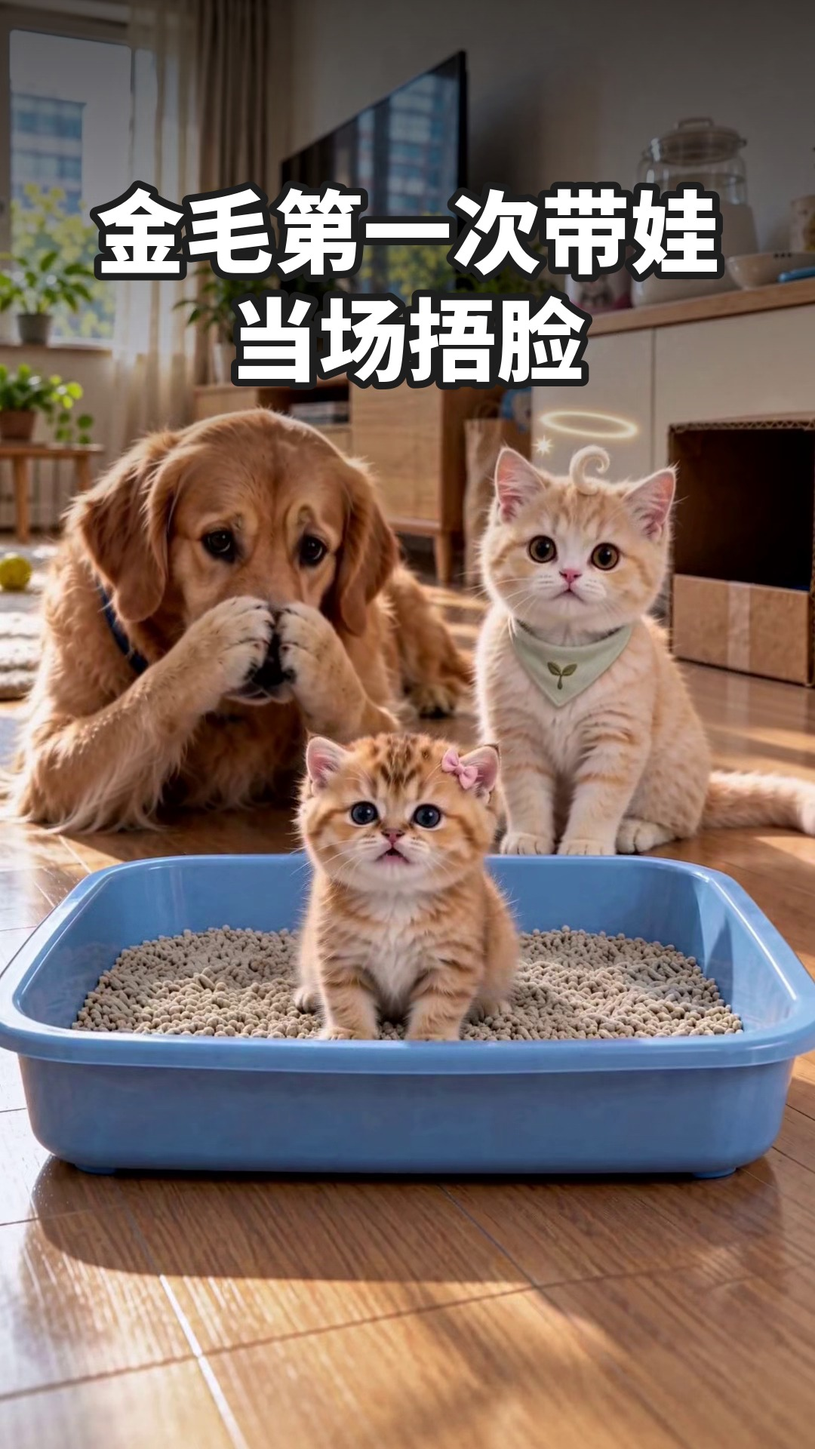
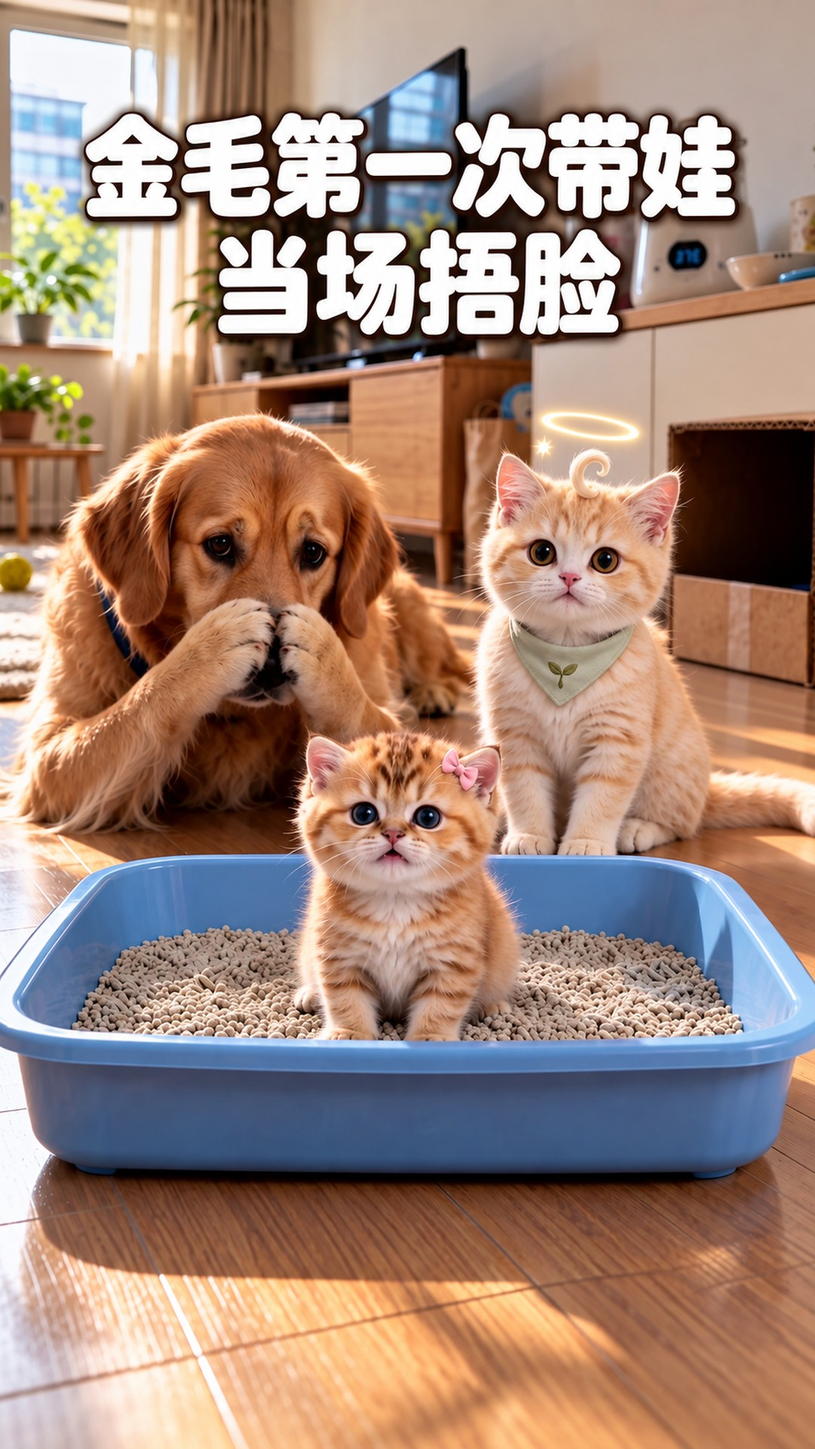
Publish kit: regenerated covers for all platforms

diff --git a/projects/ai-video/publish/index.html b/projects/ai-video/publish/index.html
@@ -52,7 +52,7 @@ ul{padding-left:20px;margin:6px 0}li{margin:3px 0}footer{margin-top:40px;font-si
 <article class="ep" id="ep1"><div class="eph"><span class="num">第1单</span><h2>《就歇一会儿》</h2><span class="meta">no.00001 · 2分31秒 · 竖屏 1080×1920</span></div>
 <p class="log">加班到深夜的她累得睡着了，电话还在响。家里的橘猫许了愿，蛋卷赶来，两只猫替她回消息、找文件、把方案发出去，还煎了个流心蛋。</p><p class="res"><b>两种共鸣：</b>我也有这个苦恼：加班累到撑不住；我家的猫也这样：守在电脑边、趴在桌上陪着。</p><p class="res"><b>封面取帧：</b>封面帧 1:28（两只猫在电脑前一起干活，无字幕）</p>
 <div class="plats"><section class="plat douyin"><h3>抖音</h3>
-<div class="covers"><a class="cov tall" href="covers/ep1_douyin_9x16.jpg" download><img src="covers/ep1_douyin_9x16.jpg" alt="抖音封面 ep1_douyin_9x16.jpg" loading="lazy"><span>9:16 · 下载</span></a><a class="cov mid" href="covers/ep1_douyin_3x4.jpg" download><img src="covers/ep1_douyin_3x4.jpg" alt="抖音封面 ep1_douyin_3x4.jpg" loading="lazy"><span>3:4 · 下载</span></a></div>
+<div class="covers"><a class="cov tall" href="covers/ep1_douyin_9x16.jpg?v=20261028-cover-v3" download><img src="covers/ep1_douyin_9x16.jpg?v=20261028-cover-v3" alt="抖音封面 ep1_douyin_9x16.jpg" loading="lazy"><span>9:16 · 下载</span></a><a class="cov mid" href="covers/ep1_douyin_3x4.jpg?v=20261028-cover-v3" download><img src="covers/ep1_douyin_3x4.jpg?v=20261028-cover-v3" alt="抖音封面 ep1_douyin_3x4.jpg" loading="lazy"><span>3:4 · 下载</span></a></div>
 <div class="field"><div class="fh"><b>标题</b><button class="copy" type="button" data-copy="我累到睡着后，猫替我把方案交了……">复制</button></div><p class="t">我累到睡着后，猫替我把方案交了……</p></div>
 <div class="field"><div class="fh"><b>简介 / 描述</b><button class="copy" type="button" data-copy="凌晨一点，方案还差最后一点，她撑不住睡着了。
 家里的橘猫守着一直响的手机，许了个愿——
@@ -61,14 +61,14 @@ ul{padding-left:20px;margin:6px 0}li{margin:3px 0}footer{margin-top:40px;font-si
 “辛苦啦。”">复制</button></div><p class="d">凌晨一点，方案还差最后一点，她撑不住睡着了。<br>家里的橘猫守着一直响的手机，许了个愿——<br>蛋卷来了。两只猫分工：一只回消息，一只找文件，最后还给她煎了个流心蛋🍳<br><br>“辛苦啦。”</p></div>
 <div class="field"><div class="fh"><b>话题</b><button class="copy" type="button" data-copy="#AI萌宠 #蛋卷万事屋 #打工人 #猫咪 #治愈系 #加班">复制</button></div><p class="tg">#AI萌宠 #蛋卷万事屋 #打工人 #猫咪 #治愈系 #加班</p></div>
 <p class="note">截帧＋大字。抖音上下滑时首帧/封面竖屏全屏显示，主页九宫格按 3:4 截取，两张都设置。文字放在桌面区域，避开猫脸和底部 200px 按钮区。</p></section><section class="plat kuaishou"><h3>快手</h3>
-<div class="covers"><a class="cov tall" href="covers/ep1_kuaishou_9x16.jpg" download><img src="covers/ep1_kuaishou_9x16.jpg" alt="快手封面 ep1_kuaishou_9x16.jpg" loading="lazy"><span>9:16 · 下载</span></a><a class="cov mid" href="covers/ep1_kuaishou_3x4.jpg" download><img src="covers/ep1_kuaishou_3x4.jpg" alt="快手封面 ep1_kuaishou_3x4.jpg" loading="lazy"><span>3:4 · 下载</span></a></div>
+<div class="covers"><a class="cov tall" href="covers/ep1_kuaishou_9x16.jpg?v=20261028-cover-v3" download><img src="covers/ep1_kuaishou_9x16.jpg?v=20261028-cover-v3" alt="快手封面 ep1_kuaishou_9x16.jpg" loading="lazy"><span>9:16 · 下载</span></a><a class="cov mid" href="covers/ep1_kuaishou_3x4.jpg?v=20261028-cover-v3" download><img src="covers/ep1_kuaishou_3x4.jpg?v=20261028-cover-v3" alt="快手封面 ep1_kuaishou_3x4.jpg" loading="lazy"><span>3:4 · 下载</span></a></div>
 <div class="field"><div class="fh"><b>标题</b><button class="copy" type="button" data-copy="加班到凌晨累睡着了，家里的猫和小天使猫替她把活干完了，还煎了个流心蛋，看完心里暖暖的">复制</button></div><p class="t">加班到凌晨累睡着了，家里的猫和小天使猫替她把活干完了，还煎了个流心蛋，看完心里暖暖的</p></div>
 <div class="field"><div class="fh"><b>简介 / 描述</b><button class="copy" type="button" data-copy="她太累了，就想歇一会儿。
 醒来一看：方案发了，早饭做好了，猫在旁边打呼噜。
 你家的猫，会不会也这样守着你加班？">复制</button></div><p class="d">她太累了，就想歇一会儿。<br>醒来一看：方案发了，早饭做好了，猫在旁边打呼噜。<br>你家的猫，会不会也这样守着你加班？</p></div>
 <div class="field"><div class="fh"><b>话题</b><button class="copy" type="button" data-copy="#AI萌宠 #猫咪 #打工人 #暖心">复制</button></div><p class="tg">#AI萌宠 #猫咪 #打工人 #暖心</p></div>
 <p class="note">同一帧，黄色粗体大字、直给情绪，适配快手双列（3:4）与单列（9:16）。</p></section><section class="plat xiaohongshu"><h3>小红书</h3>
-<div class="covers"><a class="cov mid" href="covers/ep1_xiaohongshu_3x4.jpg" download><img src="covers/ep1_xiaohongshu_3x4.jpg" alt="小红书封面 ep1_xiaohongshu_3x4.jpg" loading="lazy"><span>3:4 · 下载</span></a></div>
+<div class="covers"><a class="cov mid" href="covers/ep1_xiaohongshu_3x4.jpg?v=20261028-cover-v3" download><img src="covers/ep1_xiaohongshu_3x4.jpg?v=20261028-cover-v3" alt="小红书封面 ep1_xiaohongshu_3x4.jpg" loading="lazy"><span>3:4 · 下载</span></a></div>
 <div class="field"><div class="fh"><b>标题</b><button class="copy" type="button" data-copy="加班累睡着…醒来活被猫干完了">复制</button></div><p class="t">加班累睡着…醒来活被猫干完了</p></div>
 <div class="field"><div class="fh"><b>正文</b><button class="copy" type="button" data-copy="昨晚方案改到一点，趴桌上想着就歇五分钟。
 
@@ -85,7 +85,7 @@ ul{padding-left:20px;margin:6px 0}li{margin:3px 0}footer{margin-top:40px;font-si
 ——蛋卷万事屋 第1单｜AI原创萌宠短剧">复制</button></div><p class="d">昨晚方案改到一点，趴桌上想着就歇五分钟。<br><br>醒来手机里多了一条“已发送”，桌上一盘流心蛋和吐司。<br>不是我发的，也不是我煎的。<br><br>是家里的橘猫许了个愿，云上的小猫蛋卷下来帮忙：<br>📱一只猫回老板消息<br>📁一只猫在“别删”文件夹里翻数据<br>🍳“她的蛋，要流心的”“那就小火，少煎十秒”<br><br>打工人谁懂啊，有人替你撑一下的感觉😭<br><br>——蛋卷万事屋 第1单｜AI原创萌宠短剧</p></div>
 <div class="field"><div class="fh"><b>话题</b><button class="copy" type="button" data-copy="#AI萌宠 #猫咪 #打工人日常 #加班 #治愈 #蛋卷万事屋 #AI短剧">复制</button></div><p class="tg">#AI萌宠 #猫咪 #打工人日常 #加班 #治愈 #蛋卷万事屋 #AI短剧</p></div>
 <p class="note">3:4 竖图，奶白圆角卡片标题＋红字强调，适合小红书双列信息流；标题≤20字。</p></section><section class="plat bilibili"><h3>B站</h3>
-<div class="covers"><a class="cov wide" href="covers/ep1_bilibili_4x3_draft.jpg" download><img src="covers/ep1_bilibili_4x3_draft.jpg" alt="B站封面 ep1_bilibili_4x3_draft.jpg" loading="lazy"><span>4:3 排版稿 · 下载</span></a></div><p class="pending">横版主视觉已写好生图提示词，交 Codex 重出；出图前可先用这张排版稿。</p>
+<div class="covers"><a class="cov wide" href="covers/ep1_bilibili_4x3.jpg" download><img src="covers/ep1_bilibili_4x3.jpg" alt="B站封面 ep1_bilibili_4x3.jpg" loading="lazy"><span>4:3 · 下载</span></a></div>
 <div class="field"><div class="fh"><b>标题</b><button class="copy" type="button" data-copy="【AI萌宠短剧】加班累到睡着后，猫和小天使替我把方案发了｜蛋卷万事屋 第1单">复制</button></div><p class="t">【AI萌宠短剧】加班累到睡着后，猫和小天使替我把方案发了｜蛋卷万事屋 第1单</p></div>
 <div class="field"><div class="fh"><b>简介 / 描述</b><button class="copy" type="button" data-copy="凌晨一点，方案没做完，她睡着了，电话还在响。家里的橘猫许了个愿，云上万事屋的小猫蛋卷赶来帮忙：回消息、找数据、把方案发出去，再给她煎一个流心蛋。
 
@@ -96,7 +96,7 @@ ul{padding-left:20px;margin:6px 0}li{margin:3px 0}footer{margin-top:40px;font-si
 <p class="note">B站首页卡片按 4:3（1200×900）显示，竖屏视频需另做横版封面。这里先给可用的排版稿（模糊背景＋原帧＋标题）；更好的横版主视觉交给 Codex 重出，提示词见下。</p></section></div></article><article class="ep" id="ep2"><div class="eph"><span class="num">第2单</span><h2>《零点前的生日》</h2><span class="meta">no.00002 · 3分09秒 · 竖屏 1080×1920</span></div>
 <p class="log">她今天生日，却一个人过。家里的白猫想给她过生日：可它吃不了冻干、也不会做蛋糕。蛋卷带它第一次出门去超市，自助结账，用电饭煲做出一个有点歪的草莓蛋糕。</p><p class="res"><b>两种共鸣：</b>我也有这个苦恼：一个人过生日；我家的猫也这样：每天在门口送我出门、等我回家。</p><p class="res"><b>封面取帧：</b>封面帧 2:15（两只猫和做好的草莓蛋糕，夕阳窗边，无字幕）</p>
 <div class="plats"><section class="plat douyin"><h3>抖音</h3>
-<div class="covers"><a class="cov tall" href="covers/ep2_douyin_9x16.jpg" download><img src="covers/ep2_douyin_9x16.jpg" alt="抖音封面 ep2_douyin_9x16.jpg" loading="lazy"><span>9:16 · 下载</span></a><a class="cov mid" href="covers/ep2_douyin_3x4.jpg" download><img src="covers/ep2_douyin_3x4.jpg" alt="抖音封面 ep2_douyin_3x4.jpg" loading="lazy"><span>3:4 · 下载</span></a></div>
+<div class="covers"><a class="cov tall" href="covers/ep2_douyin_9x16.jpg?v=20261028-cover-v3" download><img src="covers/ep2_douyin_9x16.jpg?v=20261028-cover-v3" alt="抖音封面 ep2_douyin_9x16.jpg" loading="lazy"><span>9:16 · 下载</span></a><a class="cov mid" href="covers/ep2_douyin_3x4.jpg?v=20261028-cover-v3" download><img src="covers/ep2_douyin_3x4.jpg?v=20261028-cover-v3" alt="抖音封面 ep2_douyin_3x4.jpg" loading="lazy"><span>3:4 · 下载</span></a></div>
 <div class="field"><div class="fh"><b>标题</b><button class="copy" type="button" data-copy="她以为今年生日没人记得，猫偷偷用电饭煲给她做了蛋糕🎂">复制</button></div><p class="t">她以为今年生日没人记得，猫偷偷用电饭煲给她做了蛋糕🎂</p></div>
 <div class="field"><div class="fh"><b>简介 / 描述</b><button class="copy" type="button" data-copy="“我想给她过一个生日。”
 “那得有蛋糕。”
@@ -104,7 +104,7 @@ ul{padding-left:20px;margin:6px 0}li{margin:3px 0}footer{margin-top:40px;font-si
 蛋糕有点歪，可“歪的才说明，是亲手做的呀”。">复制</button></div><p class="d">“我想给她过一个生日。”<br>“那得有蛋糕。”<br>第一次自己出门，自助结账，磕鸡蛋，打奶油……<br>蛋糕有点歪，可“歪的才说明，是亲手做的呀”。</p></div>
 <div class="field"><div class="fh"><b>话题</b><button class="copy" type="button" data-copy="#AI萌宠 #蛋卷万事屋 #生日 #猫咪 #电饭煲蛋糕 #治愈系">复制</button></div><p class="tg">#AI萌宠 #蛋卷万事屋 #生日 #猫咪 #电饭煲蛋糕 #治愈系</p></div>
 <p class="note">截帧＋大字（顶部）。夕阳、台灯、草莓蛋糕本身暖色，文字白字黑描边。</p></section><section class="plat kuaishou"><h3>快手</h3>
-<div class="covers"><a class="cov tall" href="covers/ep2_kuaishou_9x16.jpg" download><img src="covers/ep2_kuaishou_9x16.jpg" alt="快手封面 ep2_kuaishou_9x16.jpg" loading="lazy"><span>9:16 · 下载</span></a><a class="cov mid" href="covers/ep2_kuaishou_3x4.jpg" download><img src="covers/ep2_kuaishou_3x4.jpg" alt="快手封面 ep2_kuaishou_3x4.jpg" loading="lazy"><span>3:4 · 下载</span></a></div>
+<div class="covers"><a class="cov tall" href="covers/ep2_kuaishou_9x16.jpg?v=20261028-cover-v3" download><img src="covers/ep2_kuaishou_9x16.jpg?v=20261028-cover-v3" alt="快手封面 ep2_kuaishou_9x16.jpg" loading="lazy"><span>9:16 · 下载</span></a><a class="cov mid" href="covers/ep2_kuaishou_3x4.jpg?v=20261028-cover-v3" download><img src="covers/ep2_kuaishou_3x4.jpg?v=20261028-cover-v3" alt="快手封面 ep2_kuaishou_3x4.jpg" loading="lazy"><span>3:4 · 下载</span></a></div>
 <div class="field"><div class="fh"><b>标题</b><button class="copy" type="button" data-copy="一个人过生日，回家发现桌上有个歪歪的蛋糕，是家里的猫亲手做的">复制</button></div><p class="t">一个人过生日，回家发现桌上有个歪歪的蛋糕，是家里的猫亲手做的</p></div>
 <div class="field"><div class="fh"><b>简介 / 描述</b><button class="copy" type="button" data-copy="猫去超市自己结账，回家用电饭煲给主人做生日蛋糕。
 “好像有些歪了。”
@@ -112,7 +112,7 @@ ul{padding-left:20px;margin:6px 0}li{margin:3px 0}footer{margin-top:40px;font-si
 祝今天过生日的你，生日快乐🎂">复制</button></div><p class="d">猫去超市自己结账，回家用电饭煲给主人做生日蛋糕。<br>“好像有些歪了。”<br>“歪的才说明，是亲手做的呀。”<br>祝今天过生日的你，生日快乐🎂</p></div>
 <div class="field"><div class="fh"><b>话题</b><button class="copy" type="button" data-copy="#AI萌宠 #猫咪 #生日快乐 #暖心">复制</button></div><p class="tg">#AI萌宠 #猫咪 #生日快乐 #暖心</p></div>
 <p class="note">黄字直给；快手观众对“回家发现/亲手做”这类生活化表达更直接。</p></section><section class="plat xiaohongshu"><h3>小红书</h3>
-<div class="covers"><a class="cov mid" href="covers/ep2_xiaohongshu_3x4.jpg" download><img src="covers/ep2_xiaohongshu_3x4.jpg" alt="小红书封面 ep2_xiaohongshu_3x4.jpg" loading="lazy"><span>3:4 · 下载</span></a></div>
+<div class="covers"><a class="cov mid" href="covers/ep2_xiaohongshu_3x4.jpg?v=20261028-cover-v3" download><img src="covers/ep2_xiaohongshu_3x4.jpg?v=20261028-cover-v3" alt="小红书封面 ep2_xiaohongshu_3x4.jpg" loading="lazy"><span>3:4 · 下载</span></a></div>
 <div class="field"><div class="fh"><b>标题</b><button class="copy" type="button" data-copy="猫咪给我做了生日蛋糕｜电饭煲版🎂">复制</button></div><p class="t">猫咪给我做了生日蛋糕｜电饭煲版🎂</p></div>
 <div class="field"><div class="fh"><b>正文</b><button class="copy" type="button" data-copy="今年生日没打算过，早上出门还跟猫说“今天也要乖乖的哦”。
 
@@ -129,7 +129,7 @@ ul{padding-left:20px;margin:6px 0}li{margin:3px 0}footer{margin-top:40px;font-si
 ——蛋卷万事屋 第2单｜AI原创萌宠短剧">复制</button></div><p class="d">今年生日没打算过，早上出门还跟猫说“今天也要乖乖的哦”。<br><br>晚上开门：桌上一个草莓奶油蛋糕，有点歪，旁边还摆了一盘我最爱吃的零食。<br><br>后来才知道，是家里的白猫许了愿，蛋卷带它第一次出门：<br>🛒 超市里挑草莓、低筋面粉、奶油和蜡烛，还自己自助结账<br>🥚 回家磕蛋“轻一点，在碗边磕一下就好”<br>🍚 电饭煲也能做蛋糕！<br>🍓 “能尝一口吗？”“不行哦，奶油猫咪不能吃”<br><br>歪的才说明，是亲手做的呀。<br><br>——蛋卷万事屋 第2单｜AI原创萌宠短剧</p></div>
 <div class="field"><div class="fh"><b>话题</b><button class="copy" type="button" data-copy="#AI萌宠 #猫咪 #生日 #电饭煲蛋糕 #治愈 #蛋卷万事屋 #AI短剧">复制</button></div><p class="tg">#AI萌宠 #猫咪 #生日 #电饭煲蛋糕 #治愈 #蛋卷万事屋 #AI短剧</p></div>
 <p class="note">标题卡放在桌面下方，不挡白猫和蛋卷的脸；“猫猫牌生日蛋糕”是小红书常见的可爱口吻。</p></section><section class="plat bilibili"><h3>B站</h3>
-<div class="covers"><a class="cov wide" href="covers/ep2_bilibili_4x3_draft.jpg" download><img src="covers/ep2_bilibili_4x3_draft.jpg" alt="B站封面 ep2_bilibili_4x3_draft.jpg" loading="lazy"><span>4:3 排版稿 · 下载</span></a></div><p class="pending">横版主视觉已写好生图提示词，交 Codex 重出；出图前可先用这张排版稿。</p>
+<div class="covers"><a class="cov wide" href="covers/ep2_bilibili_4x3.jpg" download><img src="covers/ep2_bilibili_4x3.jpg" alt="B站封面 ep2_bilibili_4x3.jpg" loading="lazy"><span>4:3 · 下载</span></a></div>
 <div class="field"><div class="fh"><b>标题</b><button class="copy" type="button" data-copy="【AI萌宠短剧】主人一个人过生日，猫第一次出门买材料，用电饭煲做了个蛋糕｜蛋卷万事屋 第2单">复制</button></div><p class="t">【AI萌宠短剧】主人一个人过生日，猫第一次出门买材料，用电饭煲做了个蛋糕｜蛋卷万事屋 第2单</p></div>
 <div class="field"><div class="fh"><b>简介 / 描述</b><button class="copy" type="button" data-copy="家里的白猫想给主人过生日：它吃不了冻干，也不会做蛋糕。蛋卷带它第一次出门，去超市挑草莓、自助结账，回家用电饭煲做了一个有点歪的草莓奶油蛋糕。
 
@@ -140,14 +140,14 @@ ul{padding-left:20px;margin:6px 0}li{margin:3px 0}footer{margin-top:40px;font-si
 <p class="note">横版排版稿；Codex 重出横版主视觉见提示词。</p></section></div></article><article class="ep" id="ep3"><div class="eph"><span class="num">第3单</span><h2>《麦芽带娃》</h2><span class="meta">no.00003 · 3分29秒 · 竖屏 1080×1920</span></div>
 <p class="log">家里来了一只小奶猫，主人去上班，金毛麦芽当起了保姆：狗粮不吃、给牛奶也不行、一直叫。蛋卷赶来一条条解释小猫的需要，最后三个小家伙玩成一团。</p><p class="res"><b>两种共鸣：</b>我家的猫也这样：小奶猫转圈刨爪找地方上厕所；我也有这个苦恼：第一次带娃/养猫手忙脚乱。附带实用养猫知识。</p><p class="res"><b>封面取帧：</b>封面帧 2:02（金毛捂脸，小奶猫坐猫砂盆，蛋卷旁观，无字幕）；小红书用 2:04（小奶猫喝奶特写）</p>
 <div class="plats"><section class="plat douyin"><h3>抖音</h3>
-<div class="covers"><a class="cov tall" href="covers/ep3_douyin_9x16.jpg" download><img src="covers/ep3_douyin_9x16.jpg" alt="抖音封面 ep3_douyin_9x16.jpg" loading="lazy"><span>9:16 · 下载</span></a><a class="cov mid" href="covers/ep3_douyin_3x4.jpg" download><img src="covers/ep3_douyin_3x4.jpg" alt="抖音封面 ep3_douyin_3x4.jpg" loading="lazy"><span>3:4 · 下载</span></a></div>
+<div class="covers"><a class="cov tall" href="covers/ep3_douyin_9x16.jpg?v=20261028-cover-v3" download><img src="covers/ep3_douyin_9x16.jpg?v=20261028-cover-v3" alt="抖音封面 ep3_douyin_9x16.jpg" loading="lazy"><span>9:16 · 下载</span></a><a class="cov mid" href="covers/ep3_douyin_3x4.jpg?v=20261028-cover-v3" download><img src="covers/ep3_douyin_3x4.jpg?v=20261028-cover-v3" alt="抖音封面 ep3_douyin_3x4.jpg" loading="lazy"><span>3:4 · 下载</span></a></div>
 <div class="field"><div class="fh"><b>标题</b><button class="copy" type="button" data-copy="金毛第一次带小奶猫：狗粮不吃，牛奶也不行，汪：谁来救救汪">复制</button></div><p class="t">金毛第一次带小奶猫：狗粮不吃，牛奶也不行，汪：谁来救救汪</p></div>
 <div class="field"><div class="fh"><b>简介 / 描述</b><button class="copy" type="button" data-copy="主人上班前交代：“照顾好妹妹哦。”
 结果小祖宗一直叫，给吃的不吃，陪玩也不理……
 直到蛋卷来了：“小猫爱干净，是想上厕所，不是想玩。”">复制</button></div><p class="d">主人上班前交代：“照顾好妹妹哦。”<br>结果小祖宗一直叫，给吃的不吃，陪玩也不理……<br>直到蛋卷来了：“小猫爱干净，是想上厕所，不是想玩。”</p></div>
 <div class="field"><div class="fh"><b>话题</b><button class="copy" type="button" data-copy="#AI萌宠 #蛋卷万事屋 #金毛 #小奶猫 #新手养猫 #猫狗双全">复制</button></div><p class="tg">#AI萌宠 #蛋卷万事屋 #金毛 #小奶猫 #新手养猫 #猫狗双全</p></div>
 <p class="note">捂脸的金毛＋猫砂盆里的小奶猫，反差本身就是钩子；文字说的是金毛手忙脚乱，不让小猫显得受委屈。</p></section><section class="plat kuaishou"><h3>快手</h3>
-<div class="covers"><a class="cov tall" href="covers/ep3_kuaishou_9x16.jpg" download><img src="covers/ep3_kuaishou_9x16.jpg" alt="快手封面 ep3_kuaishou_9x16.jpg" loading="lazy"><span>9:16 · 下载</span></a><a class="cov mid" href="covers/ep3_kuaishou_3x4.jpg" download><img src="covers/ep3_kuaishou_3x4.jpg" alt="快手封面 ep3_kuaishou_3x4.jpg" loading="lazy"><span>3:4 · 下载</span></a></div>
+<div class="covers"><a class="cov tall" href="covers/ep3_kuaishou_9x16.jpg?v=20261028-cover-v3" download><img src="covers/ep3_kuaishou_9x16.jpg?v=20261028-cover-v3" alt="快手封面 ep3_kuaishou_9x16.jpg" loading="lazy"><span>9:16 · 下载</span></a><a class="cov mid" href="covers/ep3_kuaishou_3x4.jpg?v=20261028-cover-v3" download><img src="covers/ep3_kuaishou_3x4.jpg?v=20261028-cover-v3" alt="快手封面 ep3_kuaishou_3x4.jpg" loading="lazy"><span>3:4 · 下载</span></a></div>
 <div class="field"><div class="fh"><b>标题</b><button class="copy" type="button" data-copy="家里来了只小奶猫，金毛当起了保姆，原来小猫不能喝牛奶，得泡猫奶粉">复制</button></div><p class="t">家里来了只小奶猫，金毛当起了保姆，原来小猫不能喝牛奶，得泡猫奶粉</p></div>
 <div class="field"><div class="fh"><b>简介 / 描述</b><button class="copy" type="button" data-copy="狗粮太硬，小奶猫嚼不动；
 猫咪乳糖不耐受，喝牛奶会拉肚子；
@@ -155,7 +155,7 @@ ul{padding-left:20px;margin:6px 0}li{margin:3px 0}footer{margin-top:40px;font-si
 金毛麦芽今天学会了，你学会了吗？">复制</button></div><p class="d">狗粮太硬，小奶猫嚼不动；<br>猫咪乳糖不耐受，喝牛奶会拉肚子；<br>转圈、闻地、刨爪子，是想上厕所。<br>金毛麦芽今天学会了，你学会了吗？</p></div>
 <div class="field"><div class="fh"><b>话题</b><button class="copy" type="button" data-copy="#AI萌宠 #金毛 #小奶猫 #养猫知识">复制</button></div><p class="tg">#AI萌宠 #金毛 #小奶猫 #养猫知识</p></div>
 <p class="note">黄字“金毛当保姆 带小奶猫”，信息直接。</p></section><section class="plat xiaohongshu"><h3>小红书</h3>
-<div class="covers"><a class="cov mid" href="covers/ep3_xiaohongshu_3x4.jpg" download><img src="covers/ep3_xiaohongshu_3x4.jpg" alt="小红书封面 ep3_xiaohongshu_3x4.jpg" loading="lazy"><span>3:4 · 下载</span></a></div>
+<div class="covers"><a class="cov mid" href="covers/ep3_xiaohongshu_3x4.jpg?v=20261028-cover-v3" download><img src="covers/ep3_xiaohongshu_3x4.jpg?v=20261028-cover-v3" alt="小红书封面 ep3_xiaohongshu_3x4.jpg" loading="lazy"><span>3:4 · 下载</span></a></div>
 <div class="field"><div class="fh"><b>标题</b><button class="copy" type="button" data-copy="新手养小奶猫，这3件事金毛都做错了🐶">复制</button></div><p class="t">新手养小奶猫，这3件事金毛都做错了🐶</p></div>
 <div class="field"><div class="fh"><b>正文</b><button class="copy" type="button" data-copy="家里新来了一只小奶猫，金毛麦芽当保姆，第一天就手忙脚乱😂
 
@@ -171,7 +171,7 @@ ul{padding-left:20px;margin:6px 0}li{margin:3px 0}footer{margin-top:40px;font-si
 ——蛋卷万事屋 第3单｜AI原创萌宠短剧">复制</button></div><p class="d">家里新来了一只小奶猫，金毛麦芽当保姆，第一天就手忙脚乱😂<br><br>蛋卷给它上的课，新手养猫也可以参考：<br>1⃣ 转圈、闻地、刨爪子 → 多半是想上厕所，先带去猫砂盆<br>2⃣ 狗粮太硬 → 小奶猫嚼不动，要吃适合月龄的猫粮<br>3⃣ 猫咪乳糖不耐受 → 别喂牛奶，泡专用猫奶粉<br><br>（剧情里的小知识仅作科普提醒，具体喂养请听宠物医生的）<br><br>最后三个小家伙还玩起了骑士游戏🛡<br><br>——蛋卷万事屋 第3单｜AI原创萌宠短剧</p></div>
 <div class="field"><div class="fh"><b>话题</b><button class="copy" type="button" data-copy="#AI萌宠 #新手养猫 #小奶猫 #金毛 #养猫知识 #蛋卷万事屋 #猫狗双全">复制</button></div><p class="tg">#AI萌宠 #新手养猫 #小奶猫 #金毛 #养猫知识 #蛋卷万事屋 #猫狗双全</p></div>
 <p class="note">小红书搜索流量大，用知识型问题标题＋小奶猫喝奶特写，配合正文的三条知识点。</p></section><section class="plat bilibili"><h3>B站</h3>
-<div class="covers"><a class="cov wide" href="covers/ep3_bilibili_4x3_draft.jpg" download><img src="covers/ep3_bilibili_4x3_draft.jpg" alt="B站封面 ep3_bilibili_4x3_draft.jpg" loading="lazy"><span>4:3 排版稿 · 下载</span></a></div><p class="pending">横版主视觉已写好生图提示词，交 Codex 重出；出图前可先用这张排版稿。</p>
+<div class="covers"><a class="cov wide" href="covers/ep3_bilibili_4x3.jpg" download><img src="covers/ep3_bilibili_4x3.jpg" alt="B站封面 ep3_bilibili_4x3.jpg" loading="lazy"><span>4:3 · 下载</span></a></div>
 <div class="field"><div class="fh"><b>标题</b><button class="copy" type="button" data-copy="【AI萌宠短剧】金毛第一次带小奶猫，被一只天使猫上了一课（最后还骑上了战马）｜蛋卷万事屋 第3单">复制</button></div><p class="t">【AI萌宠短剧】金毛第一次带小奶猫，被一只天使猫上了一课（最后还骑上了战马）｜蛋卷万事屋 第3单</p></div>
 <div class="field"><div class="fh"><b>简介 / 描述</b><button class="copy" type="button" data-copy="家里新来一只小奶猫，金毛麦芽被托付照顾“妹妹”：喂狗粮不吃、给牛奶不行、陪玩也不理。蛋卷赶来解释：小猫想上厕所、狗粮太硬、猫咪乳糖不耐受要喝猫奶粉。最后三只小家伙玩起了骑士游戏。
 
@@ -181,7 +181,7 @@ ul{padding-left:20px;margin:6px 0}li{margin:3px 0}footer{margin-top:40px;font-si
 <p class="note">横版排版稿；Codex 重出横版主视觉（骑士段落）见提示词。</p></section></div></article><article class="ep" id="ep4"><div class="eph"><span class="num">第4单</span><h2>《驿站猫的双十一》</h2><span class="meta">no.00004 · 3分26秒 · 竖屏 1080×1920</span></div>
 <p class="log">双十一，校园快递驿站爆仓：件乱放、人乱走，谁都找不到快递。驿站橘猫呆胶布拔下一根胡须许愿，蛋卷带着它连夜整顿：同车件挂同色牌、左进右出、跟着爪印走。</p><p class="res"><b>两种共鸣：</b>我也有这个苦恼：双十一取快递找半天；我家的猫也这样：爱在柜台上晒太阳、被抱下来也赖着不走。时效强：双十一前发布。</p><p class="res"><b>封面取帧：</b>封面帧 1:40（蛋卷抱着爪印贴纸卷，和呆胶布在货架间，无字幕）；小红书用 2:21（蛋卷跳上男生肩膀）</p>
 <div class="plats"><section class="plat douyin"><h3>抖音</h3>
-<div class="covers"><a class="cov tall" href="covers/ep4_douyin_9x16.jpg" download><img src="covers/ep4_douyin_9x16.jpg" alt="抖音封面 ep4_douyin_9x16.jpg" loading="lazy"><span>9:16 · 下载</span></a><a class="cov mid" href="covers/ep4_douyin_3x4.jpg" download><img src="covers/ep4_douyin_3x4.jpg" alt="抖音封面 ep4_douyin_3x4.jpg" loading="lazy"><span>3:4 · 下载</span></a></div>
+<div class="covers"><a class="cov tall" href="covers/ep4_douyin_9x16.jpg?v=20261028-cover-v3" download><img src="covers/ep4_douyin_9x16.jpg?v=20261028-cover-v3" alt="抖音封面 ep4_douyin_9x16.jpg" loading="lazy"><span>9:16 · 下载</span></a><a class="cov mid" href="covers/ep4_douyin_3x4.jpg?v=20261028-cover-v3" download><img src="covers/ep4_douyin_3x4.jpg?v=20261028-cover-v3" alt="抖音封面 ep4_douyin_3x4.jpg" loading="lazy"><span>3:4 · 下载</span></a></div>
 <div class="field"><div class="fh"><b>标题</b><button class="copy" type="button" data-copy="双十一快递堆成山，驿站猫许了个愿，然后整个驿站被两只猫整顿了🐾">复制</button></div><p class="t">双十一快递堆成山，驿站猫许了个愿，然后整个驿站被两只猫整顿了🐾</p></div>
 <div class="field"><div class="fh"><b>简介 / 描述</b><button class="copy" type="button" data-copy="件乱放，人乱走，难怪找不到。
 “交给我！”
@@ -189,14 +189,14 @@ ul{padding-left:20px;margin:6px 0}li{margin:3px 0}footer{margin-top:40px;font-si
 这届驿站，猫说了算。">复制</button></div><p class="d">件乱放，人乱走，难怪找不到。<br>“交给我！”<br>同一车到的件放一起、挂同一种颜色，左边进右边出，跟着爪印走——<br>这届驿站，猫说了算。</p></div>
 <div class="field"><div class="fh"><b>话题</b><button class="copy" type="button" data-copy="#AI萌宠 #蛋卷万事屋 #双十一 #快递驿站 #猫咪 #取快递">复制</button></div><p class="tg">#AI萌宠 #蛋卷万事屋 #双十一 #快递驿站 #猫咪 #取快递</p></div>
 <p class="note">双十一是时效热点，标题、封面、话题都带上；建议 11 月 1–10 日之间发。</p></section><section class="plat kuaishou"><h3>快手</h3>
-<div class="covers"><a class="cov tall" href="covers/ep4_kuaishou_9x16.jpg" download><img src="covers/ep4_kuaishou_9x16.jpg" alt="快手封面 ep4_kuaishou_9x16.jpg" loading="lazy"><span>9:16 · 下载</span></a><a class="cov mid" href="covers/ep4_kuaishou_3x4.jpg" download><img src="covers/ep4_kuaishou_3x4.jpg" alt="快手封面 ep4_kuaishou_3x4.jpg" loading="lazy"><span>3:4 · 下载</span></a></div>
+<div class="covers"><a class="cov tall" href="covers/ep4_kuaishou_9x16.jpg?v=20261028-cover-v3" download><img src="covers/ep4_kuaishou_9x16.jpg?v=20261028-cover-v3" alt="快手封面 ep4_kuaishou_9x16.jpg" loading="lazy"><span>9:16 · 下载</span></a><a class="cov mid" href="covers/ep4_kuaishou_3x4.jpg?v=20261028-cover-v3" download><img src="covers/ep4_kuaishou_3x4.jpg?v=20261028-cover-v3" alt="快手封面 ep4_kuaishou_3x4.jpg" loading="lazy"><span>3:4 · 下载</span></a></div>
 <div class="field"><div class="fh"><b>标题</b><button class="copy" type="button" data-copy="双十一驿站爆仓找不到快递？驿站橘猫许了个愿，小猫蛋卷用爪印贴纸把路线理顺了">复制</button></div><p class="t">双十一驿站爆仓找不到快递？驿站橘猫许了个愿，小猫蛋卷用爪印贴纸把路线理顺了</p></div>
 <div class="field"><div class="fh"><b>简介 / 描述</b><button class="copy" type="button" data-copy="取快递找半天的，举个爪🐾
 跟着爪印走，就不会乱啦。
 冰鲜件在冰柜，大件放这边，找不到喊“师傅”——猫会来。">复制</button></div><p class="d">取快递找半天的，举个爪🐾<br>跟着爪印走，就不会乱啦。<br>冰鲜件在冰柜，大件放这边，找不到喊“师傅”——猫会来。</p></div>
 <div class="field"><div class="fh"><b>话题</b><button class="copy" type="button" data-copy="#AI萌宠 #双十一 #取快递 #猫咪">复制</button></div><p class="tg">#AI萌宠 #双十一 #取快递 #猫咪</p></div>
 <p class="note">黄字“找快递 跟着猫爪走”，一句话讲清看点。</p></section><section class="plat xiaohongshu"><h3>小红书</h3>
-<div class="covers"><a class="cov mid" href="covers/ep4_xiaohongshu_3x4.jpg" download><img src="covers/ep4_xiaohongshu_3x4.jpg" alt="小红书封面 ep4_xiaohongshu_3x4.jpg" loading="lazy"><span>3:4 · 下载</span></a></div>
+<div class="covers"><a class="cov mid" href="covers/ep4_xiaohongshu_3x4.jpg?v=20261028-cover-v3" download><img src="covers/ep4_xiaohongshu_3x4.jpg?v=20261028-cover-v3" alt="小红书封面 ep4_xiaohongshu_3x4.jpg" loading="lazy"><span>3:4 · 下载</span></a></div>
 <div class="field"><div class="fh"><b>标题</b><button class="copy" type="button" data-copy="双十一取快递的我 vs 被猫整顿过的驿站">复制</button></div><p class="t">双十一取快递的我 vs 被猫整顿过的驿站</p></div>
 <div class="field"><div class="fh"><b>正文</b><button class="copy" type="button" data-copy="双十一取快递真的会崩溃：货架找三遍，取件码对不上😵
 
@@ -211,7 +211,7 @@ ul{padding-left:20px;margin:6px 0}li{margin:3px 0}footer{margin-top:40px;font-si
 ——蛋卷万事屋 第4单｜AI原创萌宠短剧">复制</button></div><p class="d">双十一取快递真的会崩溃：货架找三遍，取件码对不上😵<br><br>这个驿站不一样——<br>🐾 地上一路蓝色猫爪，左边进、右边出，跟着走就行<br>🟦 同一车到的件放一起，挂同一种颜色的牌子<br>🧊 冰鲜件？在冰柜里<br>🙋 实在找不到喊一声“师傅！”，一只小猫会跳到你肩上带路<br><br>驿站的橘猫呆胶布许了个愿，蛋卷带着它连夜整顿出来的。<br><br>——蛋卷万事屋 第4单｜AI原创萌宠短剧</p></div>
 <div class="field"><div class="fh"><b>话题</b><button class="copy" type="button" data-copy="#AI萌宠 #双十一 #取快递 #快递驿站 #猫咪 #蛋卷万事屋 #AI短剧">复制</button></div><p class="tg">#AI萌宠 #双十一 #取快递 #快递驿站 #猫咪 #蛋卷万事屋 #AI短剧</p></div>
 <p class="note">用男生被猫跳上肩的惊讶表情，配“找不到快递？喊猫！”，贴近取件人的视角。</p></section><section class="plat bilibili"><h3>B站</h3>
-<div class="covers"><a class="cov wide" href="covers/ep4_bilibili_4x3_draft.jpg" download><img src="covers/ep4_bilibili_4x3_draft.jpg" alt="B站封面 ep4_bilibili_4x3_draft.jpg" loading="lazy"><span>4:3 排版稿 · 下载</span></a></div><p class="pending">横版主视觉已写好生图提示词，交 Codex 重出；出图前可先用这张排版稿。</p>
+<div class="covers"><a class="cov wide" href="covers/ep4_bilibili_4x3.jpg" download><img src="covers/ep4_bilibili_4x3.jpg" alt="B站封面 ep4_bilibili_4x3.jpg" loading="lazy"><span>4:3 · 下载</span></a></div>
 <div class="field"><div class="fh"><b>标题</b><button class="copy" type="button" data-copy="【AI萌宠短剧】双十一驿站爆仓，橘猫许愿后，两只猫把整个驿站改成了单行道｜蛋卷万事屋 第4单">复制</button></div><p class="t">【AI萌宠短剧】双十一驿站爆仓，橘猫许愿后，两只猫把整个驿站改成了单行道｜蛋卷万事屋 第4单</p></div>
 <div class="field"><div class="fh"><b>简介 / 描述</b><button class="copy" type="button" data-copy="双十一，校园快递驿站爆仓：件乱放、人乱走。驿站橘猫呆胶布许了个愿，蛋卷带着它连夜整顿——同车件挂同色牌、左进右出、地上贴满猫爪路线，冰鲜件放冰柜，找不到就喊“师傅”。
 
@@ -230,7 +230,7 @@ ul{padding-left:20px;margin:6px 0}li{margin:3px 0}footer{margin-top:40px;font-si
 <li><a href="https://jiangren.com.au/en/learn/ai-image/gpt-image-2-douyin-tiktok">竖版封面尺寸与安全区（抖音 9:16）</a></li>
 <li><a href="../research/index.html#cat-human-resonance">既有竞品研究：活猫感与两种共鸣</a></li></ul></section>
 
-<footer>御坂朽木 · AI 创作资料 / 发布物料 · 2026-10-28。封面由成片截帧排版；B站横版主视觉待重出。</footer>
+<footer>御坂朽木 · AI 创作资料 / 发布物料 · 2026-10-28。封面为重新生成的主视觉；原截帧版保留为 *_frame.jpg。</footer>
 </main>
 <script>
 document.addEventListener('click',async function(ev){var b=ev.target.closest('.copy');if(!b)return;var t=b.getAttribute('data-copy');var ok=false;

diff --git a/projects/ai-video/index.html b/projects/ai-video/index.html
@@ -8,7 +8,7 @@
 <p class="intro">两份资料分别回答：同类内容有哪些值得学习的地方，以及我们想讲怎样的故事。</p>
 <div class="cards"><article><span class="tag">01 / 竞品研究</span><h2>AI 短视频竞品研究</h2><p>围绕萌宠与微缩景观，整理平台账号、代表作品、观众反馈和可借鉴的表达方式。</p><ul><li>可按平台、方向与证据类别筛选账号</li><li>20个高频主题：覆盖率、吸引机制与项目应用</li><li>新增用户调研判断：活猫感与猫／人两种共鸣</li><li>保留核查来源、研究边界与资料缺口</li></ul><a class="link" href="research/index.html#cat-human-resonance">阅读竞品研究 →</a><p class="note">用户调研判断更新：2026-10-15。原账号库快照：2026-10-12。百条剧情库的方向和方式已被用户否定，转历史归档。部分记录仍待核实，具体状态以报告标注为准。</p></article>
 <article><span class="tag">02 / 原创 IP 开发</span><h2>蛋卷万事屋 <small style="font-size:13px;font-weight:400">原创萌宠IP</small></h2><p>其他猫看见主人被现实难处困住，自己帮不上便许愿。蛋卷下凡，与它一起实际帮忙，让人重新开心地陪猫，再回到云上。</p><ul><li>世界规则、心愿胡须联络媒介与主角设定</li><li>主角正式定名蛋卷，形象与云上旧邮务室已选；新增无角色场景基准与打字机位置设定；旧方案文末归档</li><li>主线、支线、隐线与单集故事结构</li><li>案例优劣对照、故事改写与一分钟试片建议</li></ul><a class="link" href="worldbuilding/index.html">阅读世界观大纲 →</a><p style="margin-top:16px"><a href="worldbuilding/episodes/">重构：阅读猫替人许愿的五集V2 →</a></p><p style="margin-top:16px"><a href="worldbuilding/danjuan-naming/">查看账号定稿、简介与新头像 →</a></p><p style="margin-top:16px"><a href="worldbuilding/#postroom-v1">查看已选旧邮务室与无角色场景基准 →</a></p><p style="margin-top:16px"><a href="worldbuilding/#voice-auditions">试听蛋卷已固定的 V4 音色 →</a></p><p class="note">开发大纲 V0.30。按用户纠正重写五集V2，约75秒／集，首拍待选；V1已否定并归档。主角蛋卷、店铺／账号蛋卷万事屋、简介与 V4 音色已定。旧命名、评分、头像调研及未选音色集中底部折叠归档。</p></article>
-<article><span class="tag">03 / 发布物料</span><h2>四集发布物料 <small style="font-size:13px;font-weight:400">抖音 · 快手 · 小红书 · B站</small></h2><p>蛋卷万事屋前四部成片的发布标题、简介、话题与封面，按四个平台的封面尺寸、观众与推荐方式分别准备，可一键复制、直接下载封面。</p><ul><li>四集 × 四平台：标题、简介／正文、话题标签</li><li>抖音、快手 9:16＋3:4，小红书 3:4，B站 4:3 封面</li><li>平台差异速览、AI 内容声明与发布顺序建议</li></ul><a class="link" href="publish/index.html">查看发布物料 →</a><p class="note">2026-10-28 更新。B站横版主视觉待重出，当前为可用排版稿。</p></article></div>
+<article><span class="tag">03 / 发布物料</span><h2>四集发布物料 <small style="font-size:13px;font-weight:400">抖音 · 快手 · 小红书 · B站</small></h2><p>蛋卷万事屋前四部成片的发布标题、简介、话题与封面，按四个平台的封面尺寸、观众与推荐方式分别准备，可一键复制、直接下载封面。</p><ul><li>四集 × 四平台：标题、简介／正文、话题标签</li><li>抖音、快手 9:16＋3:4，小红书 3:4，B站 4:3 封面</li><li>平台差异速览、AI 内容声明与发布顺序建议</li></ul><a class="link" href="publish/index.html">查看发布物料 →</a><p class="note">2026-10-28 更新。封面已重出为主视觉。</p></article></div>
 <section class="reading"><h2>阅读与讨论</h2><p>先读竞品研究，了解观察依据；再读世界观大纲，讨论角色、情感与故事。两份报告顶部均可返回这里或切换资料。</p><p>竞品报告可下载研究数据；世界观大纲支持打印或保存为 PDF。</p></section>
 <footer>御坂朽木 · AI 创作资料 / 文档版本日期：2026-10-28</footer>
 </main></body></html>
